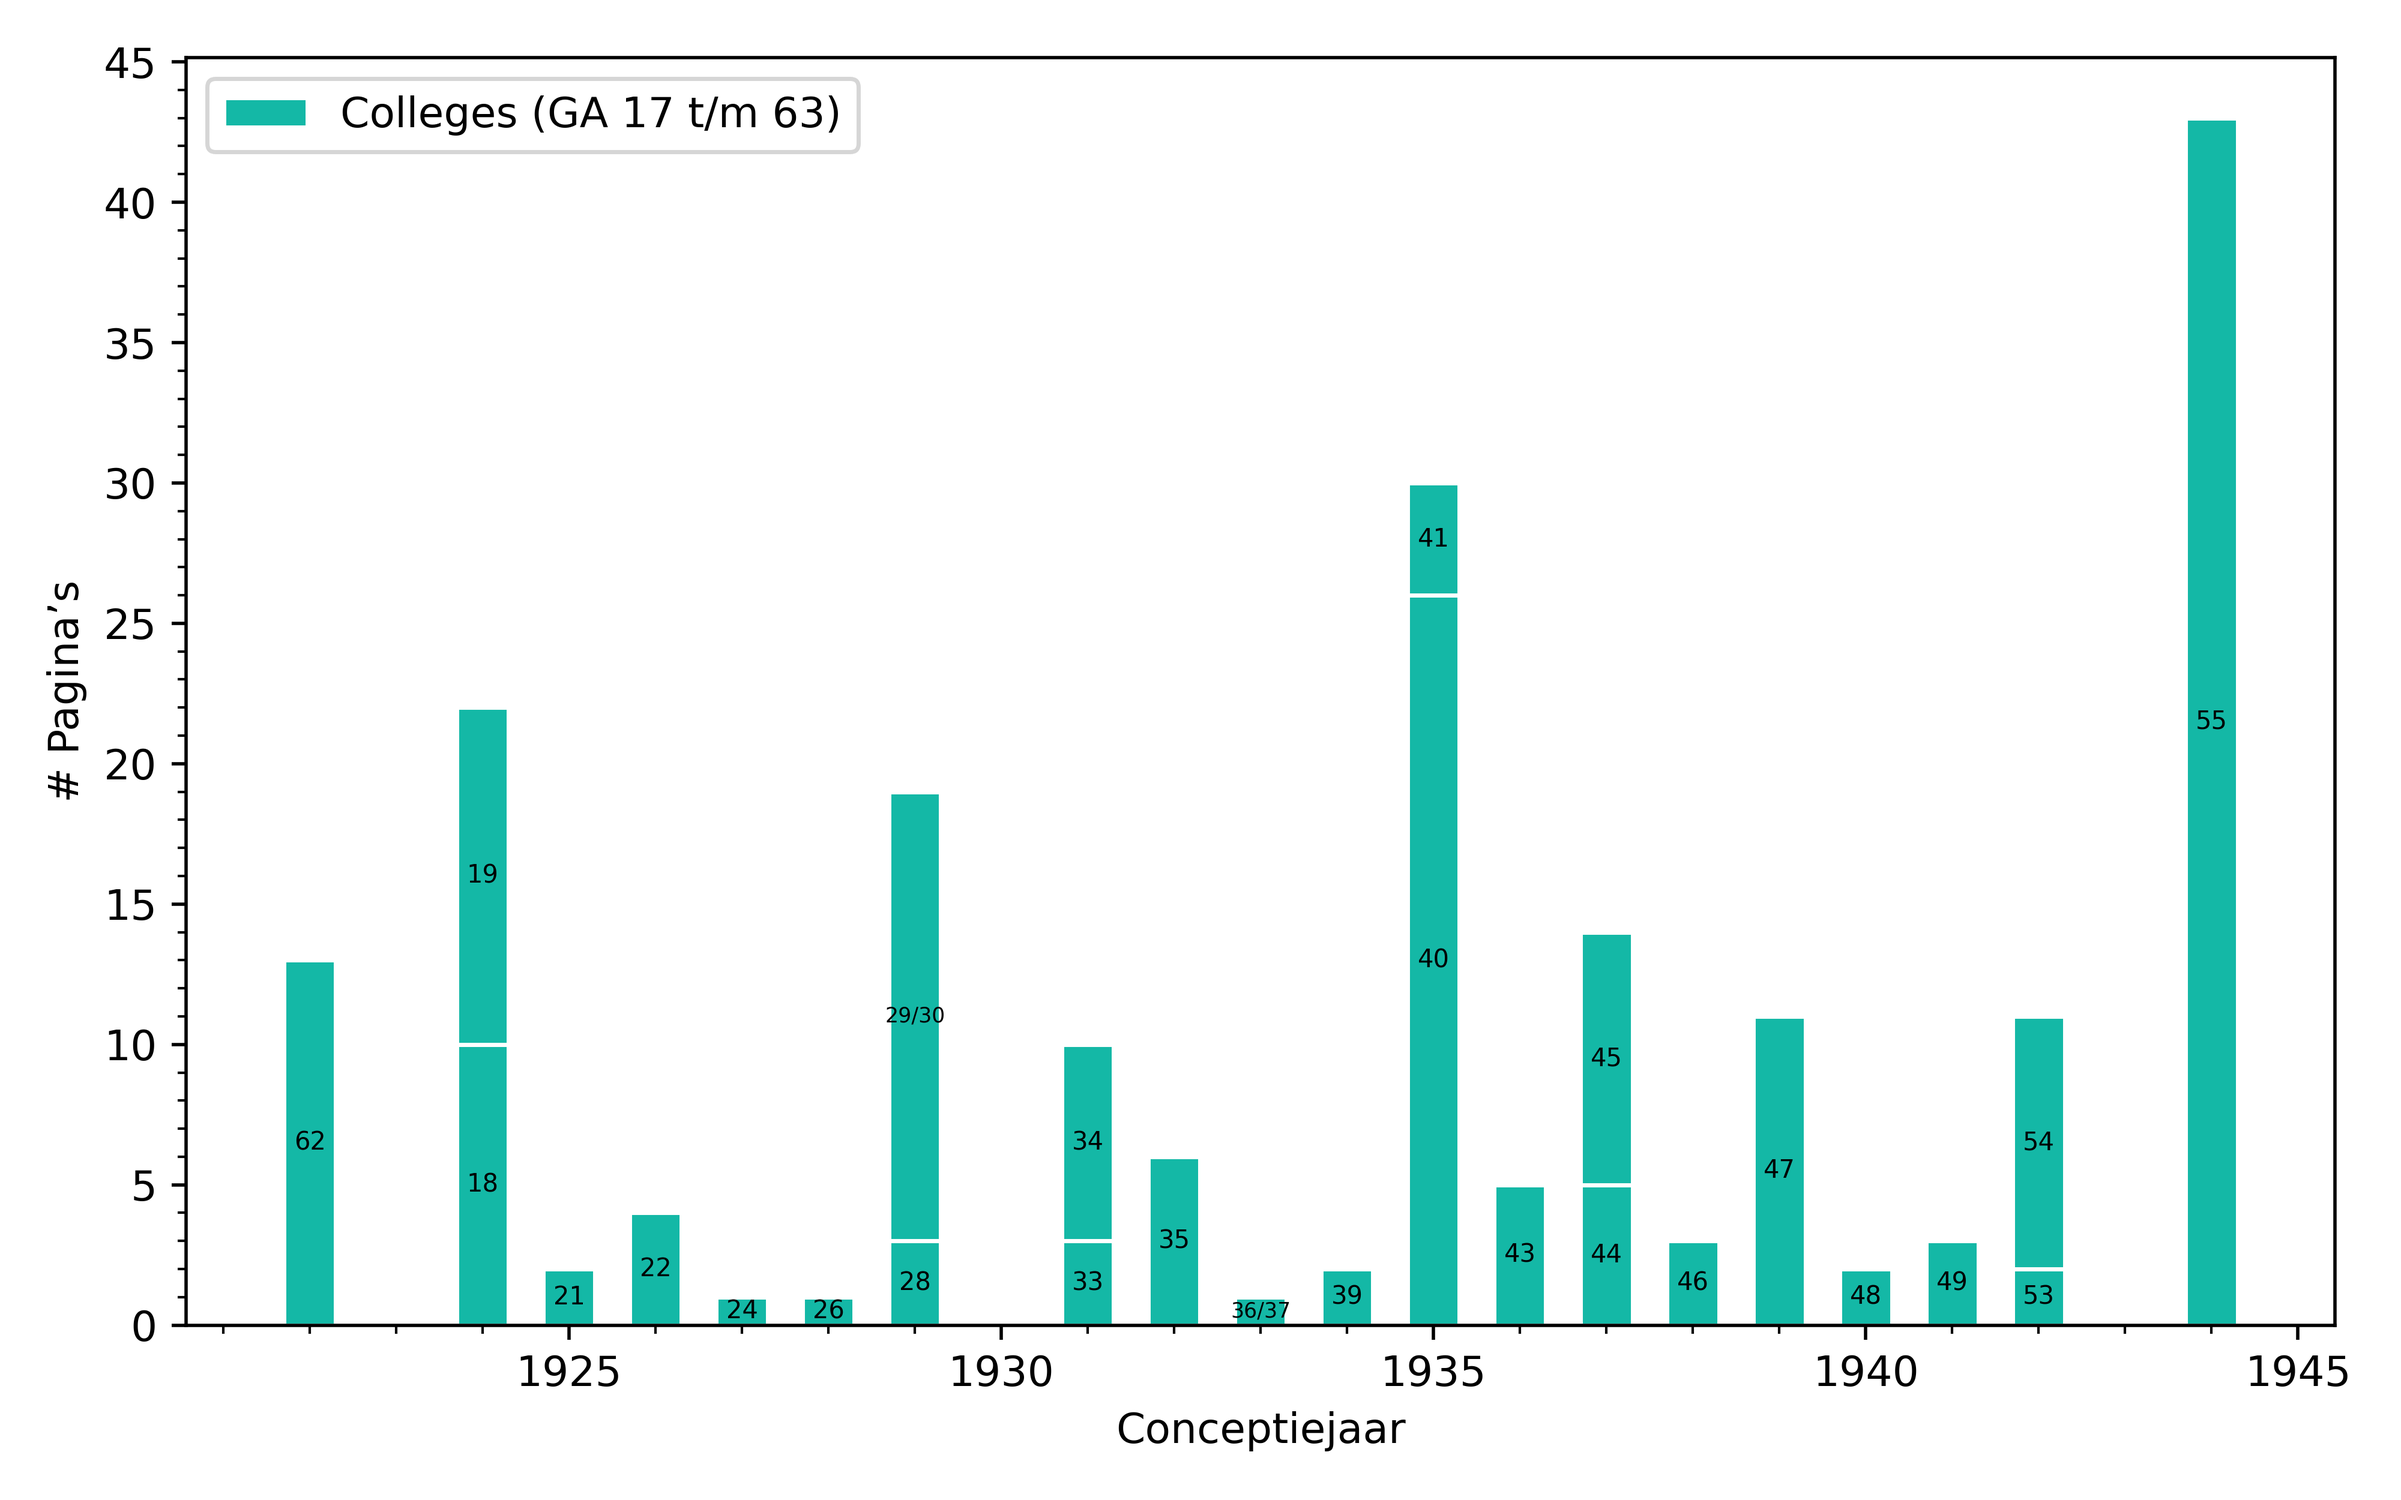
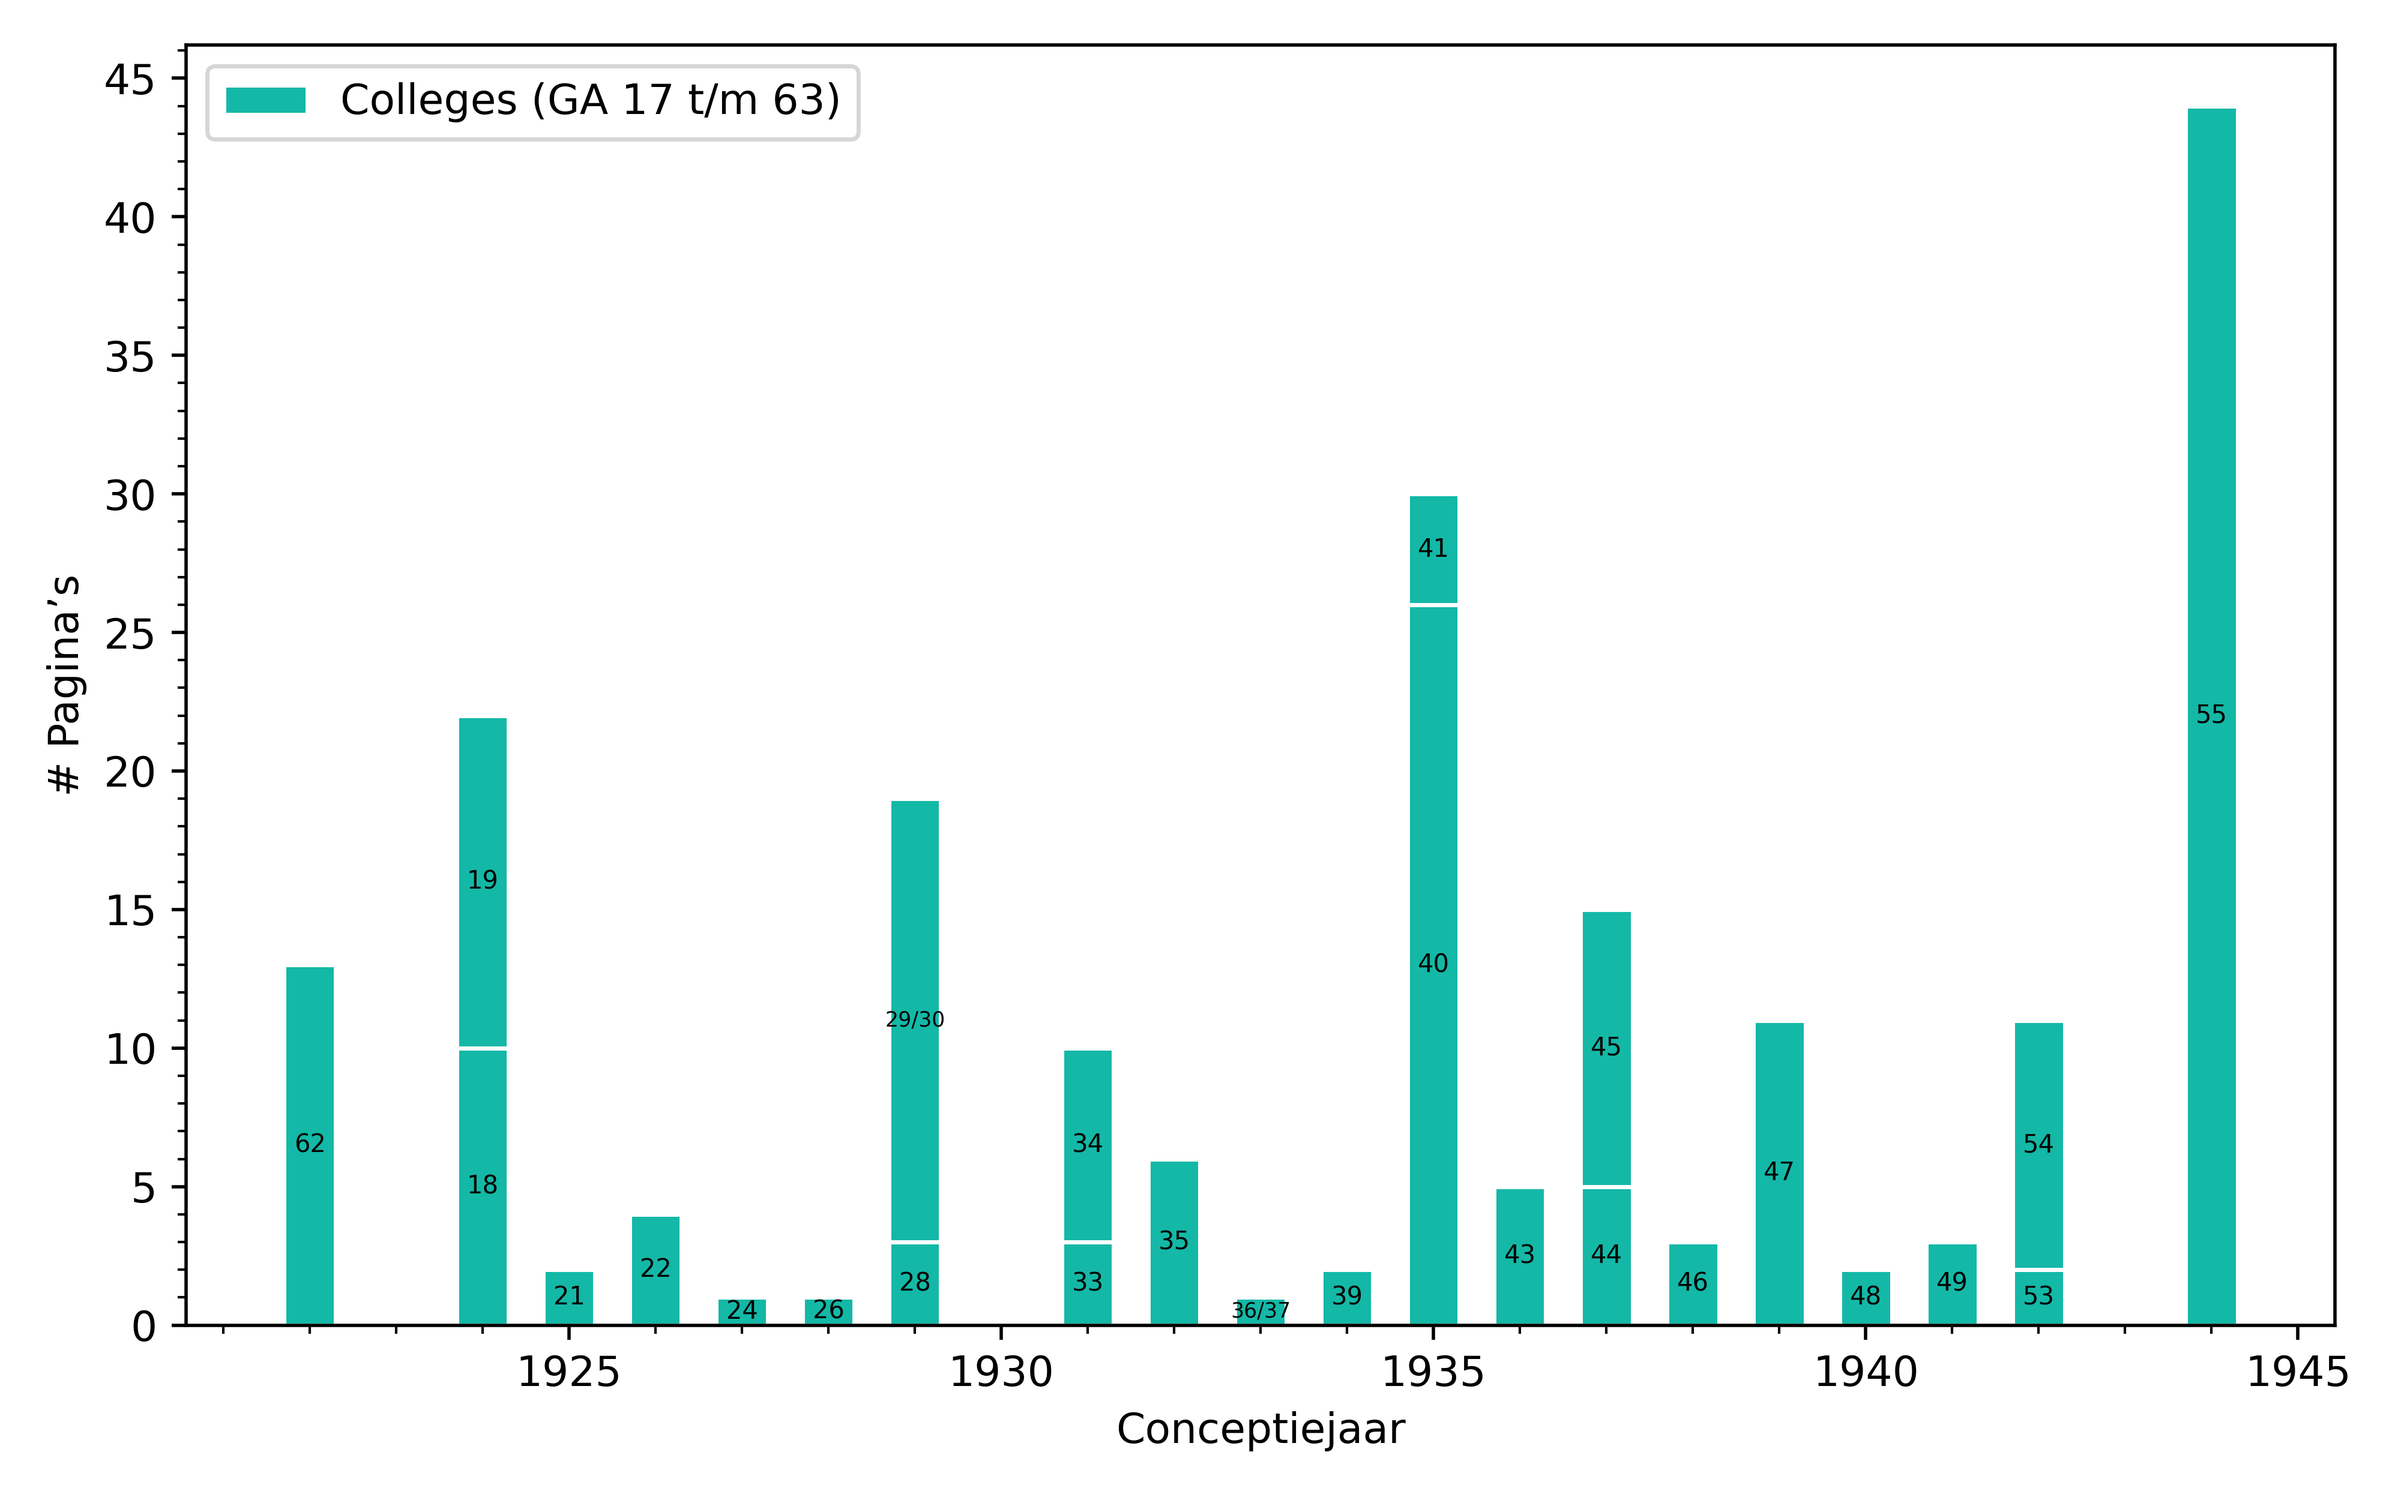
Include corrections

diff --git a/utils.py b/utils.py
@@ -11,3 +11,39 @@ def find_closest_preceding_number(numbers, n) -> int | None:
             closest_preceding_number = m
 
     return closest_preceding_number
+
+
+def correct_index(index, errata):
+    for vol, refs in errata.items():
+        for ref in refs:
+            if isinstance(ref, dict):
+                ref_key, ref_value = next(iter(ref.items()))
+
+                try:
+                    ref_index = next(
+                        index
+                        for index, orig_ref in enumerate(index[vol])
+                        if ref_key == orig_ref
+                        or (
+                            isinstance(orig_ref, dict)
+                            and ref_key == next(iter(orig_ref.keys()))
+                        )
+                    )
+                except StopIteration:
+                    raise ValueError(
+                        f"Error correcting volume {vol}: reference {ref} not found (make sure no categories are assigned to this ref in the original index)"
+                    )
+
+                if ref_value == None:
+                    # Reference should be removed
+                    index[vol].pop(ref_index)
+                else:
+                    print(vol, ref_value)
+                    # Reference should be replaced
+                    index[vol][ref_index] = ref_value
+            else:
+                # Reference should be added
+                index[vol].append(ref)
+
+    print(index)
+    return index

diff --git a/load.py b/load.py
@@ -1,4 +1,5 @@
 import yaml
+from utils import correct_index
 
 IndexObj = dict[str, list[str | int]]
 DatesObj = dict[str, None | int | dict[int, None | int]]
@@ -43,19 +44,39 @@ def clean_index(index) -> IndexObj:
 INDEX = None
 DATES = dict()
 PARTS = None
+UNCORRECTED_INDEX = None
 
 
-def get_index() -> IndexObj:
+def get_index(include_corrections=True) -> IndexObj:
     global INDEX
+    global UNCORRECTED_INDEX
 
-    if INDEX == None:
+    if (include_corrections and INDEX == None) or (
+        not include_corrections and UNCORRECTED_INDEX == None
+    ):
         print("Loading index")
         with open("index/index.yml") as f:
             index = yaml.safe_load(f)
 
-        INDEX = clean_index(index)
+        if include_corrections:
+            with open("index/errata.yml") as f:
+                errata = yaml.safe_load(f)
 
-    return INDEX
+            index = correct_index(index, errata)
+
+            with open("index/complement.yml") as f:
+                complement = yaml.safe_load(f)
+
+            if set(index.keys()).intersection(complement.keys()):
+                raise ValueError("Complement has an overlapping volume with index")
+
+            index = {**index, **complement}
+
+            INDEX = clean_index(index)
+        else:
+            UNCORRECTED_INDEX = clean_index(index)
+
+    return INDEX if include_corrections else UNCORRECTED_INDEX
 
 
 def get_dates(date_type) -> DatesObj:

diff --git a/index.py b/index.py
@@ -92,9 +92,10 @@ def plot_histogram(
     date_type: str,
     include_parts: set[str] = set(),
     include_vols: set[str | int] = set(),
+    include_corrections: bool = True,
     size="md",
 ):
-    index = get_index()
+    index = get_index(include_corrections)
     fig = plt.figure(figsize=(8, 9 if size == "lg" else 5))
     ax = fig.subplots()
     cumulative_counter = Counter()
@@ -168,11 +169,13 @@ def plot_histogram(
     plt.legend()
     plt.tight_layout()
     part_postfix = "_" + "-".join(sorted(include_parts)) if include_parts else ""
-    plt.savefig(f"figures/phusis-{date_type}{part_postfix}.png", dpi=500)
+    corr_postfix = "" if include_corrections else "_uncorrected"
+    plt.savefig(f"figures/phusis-{date_type}{part_postfix}{corr_postfix}.png", dpi=500)
 
 
 if __name__ == "__main__":
     plot_histogram("orig", size="lg")
+    plot_histogram("orig", size="lg", include_corrections=False)
     plot_histogram("pub")
     plot_histogram("orig", include_parts={"lectures"}, size="sm")
     plot_histogram("orig", include_parts={"unpublished", "notes"})
